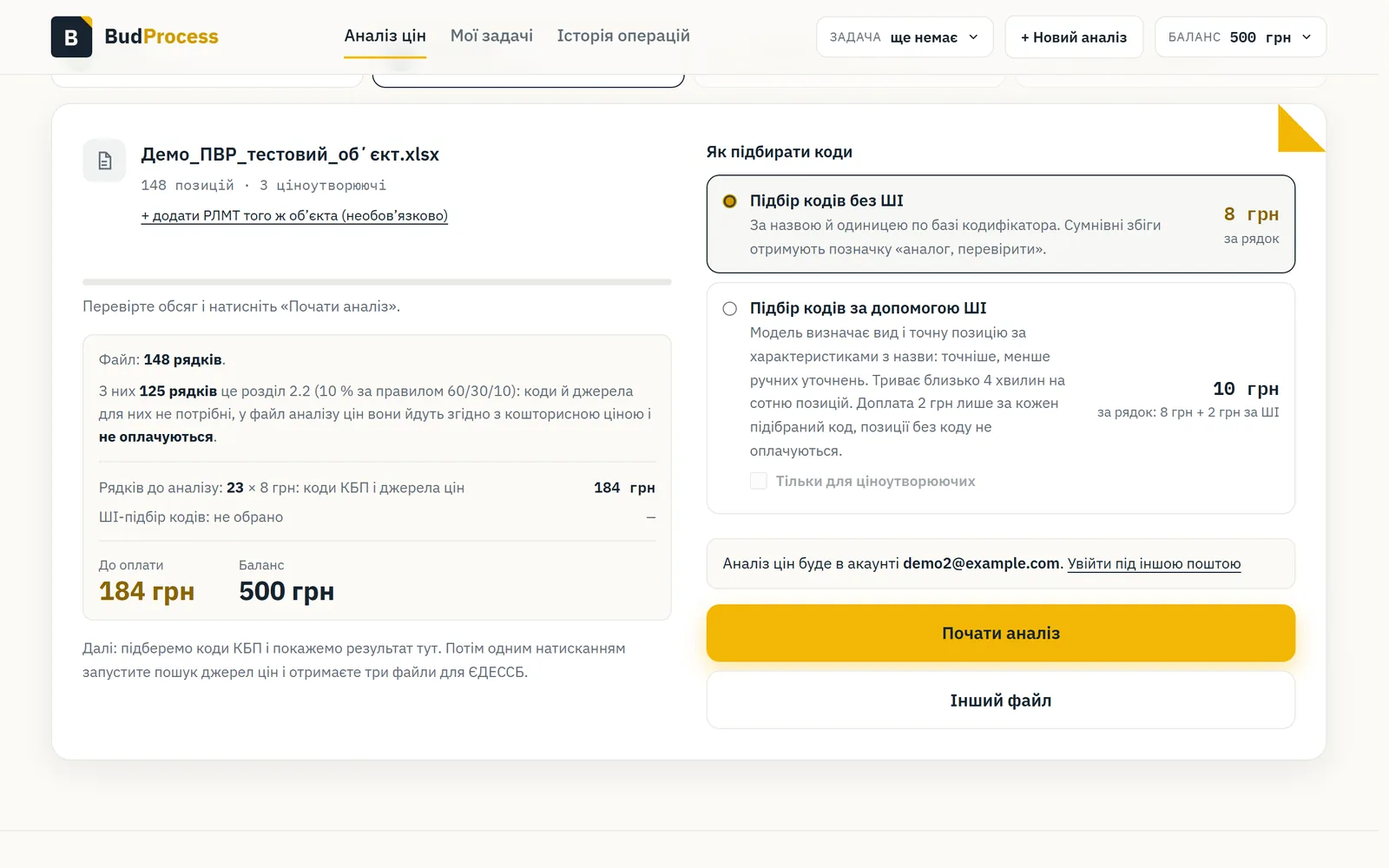
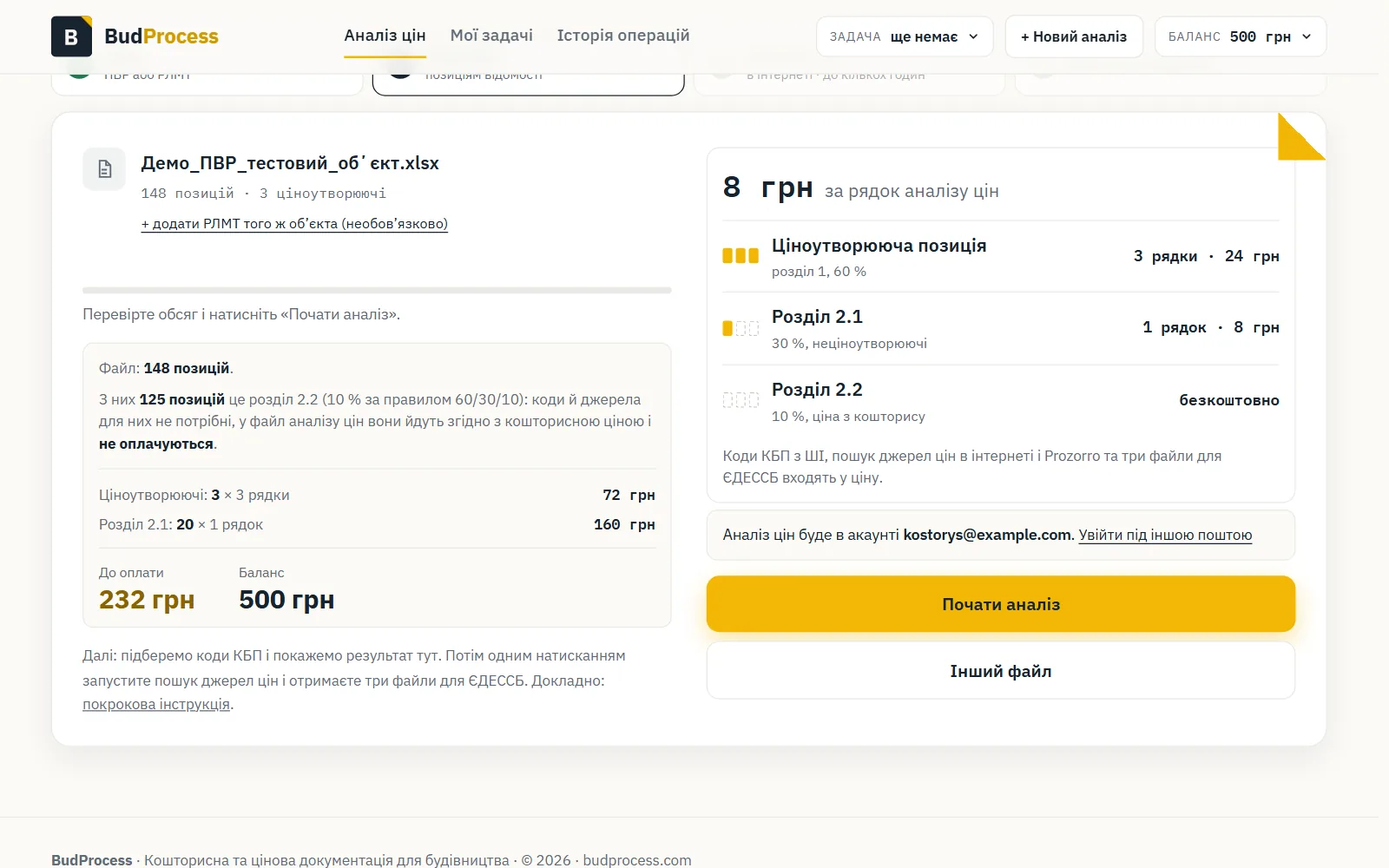
Tariff 2 copy: AI code matching always included, 8 UAH per price analysis row (pricing position = 3 rows); new cost screen screenshot in the guide

diff --git a/analiz-tsin.html b/analiz-tsin.html
@@ -311,7 +311,7 @@ gtag('config', 'G-2LT3V3W7FC', {linker: {domains: ['budprocess.com', 'app.budpro
 <a class="btn btn-amber" href="https://app.budprocess.com/">Зробити онлайн</a>
 <a class="btn btn-line" href="#contact">Замовити під ключ</a>
 </div>
-<p class="hero-note">Онлайн — 8 грн за рядок відомості · Під ключ — від 5 000 грн · Вся Україна, дистанційно</p>
+<p class="hero-note">Онлайн — 8 грн за рядок аналізу цін · Під ключ — від 5 000 грн · Вся Україна, дистанційно</p>
 </div>
 
 <section id="online">
@@ -330,7 +330,7 @@ gtag('config', 'G-2LT3V3W7FC', {linker: {domains: ['budprocess.com', 'app.budpro
 <li><b>Три обмінні файли</b> для ЄДЕССБ: аналіз цін, протокол погодження, кошторисна вартість</li>
 </ul>
 <div class="way-foot">
-<div class="way-price">8 грн за рядок<small>за бажанням — підбір кодів за допомогою ШІ</small><span class="gift">Перші 500 грн — за наш рахунок</span></div>
+<div class="way-price">8 грн за рядок<small>коди КБП підбирає ШІ</small><span class="gift">Перші 500 грн — за наш рахунок</span></div>
 <a class="btn btn-amber" href="https://app.budprocess.com/">Відкрити сервіс</a>
 </div>
 <p class="way-link"><a href="/instrukciya">Як це працює: покрокова інструкція</a></p>
@@ -430,7 +430,7 @@ gtag('config', 'G-2LT3V3W7FC', {linker: {domains: ['budprocess.com', 'app.budpro
 <ul class="price-list">
 <li>Платите лише за рядки розділів 60 % і 30 % — решту відомості сервіс обробляє безкоштовно</li>
 <li>Суму бачите одразу після завантаження відомості — ще до того, як щось запустити</li>
-<li>За бажанням — підбір кодів КБП за допомогою ШІ: точніше, менше ручних уточнень</li>
+<li>Коди КБП підбирає ШІ за характеристиками з назви: точніше, менше ручних уточнень</li>
 </ul>
 <div class="price-gift"><span class="gift">Перші 500 грн — за наш рахунок</span><p>Нараховуємо після підтвердження пошти, без картки й зобов'язань. Цього вистачає на кошторис приблизно до 500 позицій — платні лише рядки розділів 60 % і 30 %. <a href="https://app.budprocess.com/">Спробувати</a></p></div>
 </div>
@@ -474,7 +474,7 @@ gtag('config', 'G-2LT3V3W7FC', {linker: {domains: ['budprocess.com', 'app.budpro
 <div class="sec-label">Питання</div>
 <h2>Часті питання про аналіз цін</h2>
 <details><summary>Чим онлайн-сервіс відрізняється від послуги під ключ?</summary><p><b>Онлайн</b> — ви самі завантажуєте відомість ресурсів, а сервіс автоматично підбирає коди КБП і джерела цін і збирає три обмінні файли для ЄДЕССБ. Результат за кілька годин, оплата за рядок.</p><p><b>Під ключ</b> — наш спеціаліст готує комплект, працює з постачальниками і за дорученням завантажує звіт у ваш кабінет ЄДЕССБ. Готовність від 7 робочих днів, вартість від 5 000 грн.</p></details>
-<details><summary>Скільки коштує підготовка даних для аналізу цін?</summary><p><b>Онлайн</b> — 8 грн за рядок відомості; оплачуються лише рядки розділів 60 % і 30 %. Суму сервіс показує одразу після завантаження відомості.</p><p><b>Під ключ</b> — від 5 000 грн, залежно від кількості позицій, насамперед ціноутворюючих, і ступеня нашої участі в роботі з постачальниками. Надішліть кошторис — назвемо точну цифру, оцінка безкоштовна.</p></details>
+<details><summary>Скільки коштує підготовка даних для аналізу цін?</summary><p><b>Онлайн</b> — 8 грн за рядок аналізу цін, тобто за одне джерело ціни: ціноутворюючій позиції потрібні три джерела, позиції розділу 30 % одне, розділ 10 % безкоштовно. Суму сервіс показує одразу після завантаження відомості.</p><p><b>Під ключ</b> — від 5 000 грн, залежно від кількості позицій, насамперед ціноутворюючих, і ступеня нашої участі в роботі з постачальниками. Надішліть кошторис — назвемо точну цифру, оцінка безкоштовна.</p></details>
 <details><summary>Що потрібно для онлайн-сервісу?</summary><p>Підсумкова відомість ресурсів (ПВР) або ранжований список матеріалів (РЛМТ) з АВК-5 чи іншої кошторисної програми у форматі xls, xlsx або rtf — і електронна пошта, на яку прийде посилання для входу. Перші 500 грн — за наш рахунок: нараховуємо після підтвердження пошти, далі — поповнення карткою.</p></details>
 <details><summary>Чи можна одразу подати файли з онлайн-сервісу в ЄДЕССБ?</summary><p>Файли готові до імпорту в кабінет ЄДЕССБ, але коди КБП, ціни та джерела в них підібрані автоматично. Звіт формується й підписується КЕП у кабінеті замовника чи підрядника, тому перед подачею результат перевіряє фахівець, який його подає, — так само, як ми перевіряємо комплекти під ключ.</p></details>
 <details><summary>Що потрібно від вас для роботи під ключ?</summary><p>Кошторис у будь-якому форматі. Далі працюємо ми.</p></details>

diff --git a/instrukciya.html b/instrukciya.html
@@ -442,8 +442,8 @@ gtag('config', 'G-2LT3V3W7FC', {linker: {domains: ['budprocess.com', 'app.budpro
 
 <div class="step-h" id="cost"><span class="n">3</span><h2>Вартість і запуск</h2></div>
 <p class="do"><b>Що зробити:</b> перевірте кількість рядків до аналізу, оберіть спосіб підбору кодів і натисніть «Почати аналіз».</p>
-<p>На екрані видно, скільки рядків піде в роботу і скільки це коштує. Оплачуються лише рядки розділів 1 і 2.1, по 8&nbsp;грн за рядок, розділ 2.2 іде у файли за кошторисною ціною без оплати. Оберіть спосіб підбору кодів: за назвою по базі Кодифікатора або за допомогою ШІ, точніший і дорожчий, сума показана поруч. Натисніть «Почати аналіз».</p>
-<figure><img src="/img/instr/03-cost.webp" width="1600" height="1000" loading="lazy" alt="Екран перед запуском: назва файлу, кількість рядків до аналізу, сума до оплати, баланс, вибір підбору кодів без ШІ або з ШІ, кнопка «Почати аналіз»"><figcaption>Перед запуском користувач бачить кількість рядків до аналізу, суму, баланс і вибір способу підбору кодів</figcaption></figure>
+<p>На екрані видно, скільки позицій піде в роботу і скільки це коштує: 8&nbsp;грн за рядок аналізу цін, ціноутворююча позиція рахується як три рядки, бо для неї потрібні три джерела ціни. Розділ 2.2 іде у файли за кошторисною ціною безкоштовно. Коди підбирає ШІ, це входить у ціну. Натисніть «Почати аналіз».</p>
+<figure><img src="/img/instr/03-cost.webp" width="1600" height="1000" loading="lazy" alt="Екран перед запуском: назва файлу, кількість позицій, розрахунок вартості, баланс, ціна за рядок аналізу цін, кнопка «Почати аналіз»"><figcaption>Перед запуском користувач бачить кількість позицій, розрахунок вартості і баланс</figcaption></figure>
 
 <div class="step-h" id="codes"><span class="n">4</span><h2>Коди КБП</h2></div>
 <p class="do"><b>Що побачите:</b> через хвилину-дві підсумок: скільки позицій у роботі, скільки ціноутворюючих, скільки отримали код і скільки без коду.</p>

diff --git a/content/page-instrukciya.html b/content/page-instrukciya.html
@@ -38,8 +38,8 @@ image: /img/instr/04-codes.webp
 
 <div class="step-h" id="cost"><span class="n">3</span><h2>Вартість і запуск</h2></div>
 <p class="do"><b>Що зробити:</b> перевірте кількість рядків до аналізу, оберіть спосіб підбору кодів і натисніть «Почати аналіз».</p>
-<p>На екрані видно, скільки рядків піде в роботу і скільки це коштує. Оплачуються лише рядки розділів 1 і 2.1, по 8&nbsp;грн за рядок, розділ 2.2 іде у файли за кошторисною ціною без оплати. Оберіть спосіб підбору кодів: за назвою по базі Кодифікатора або за допомогою ШІ, точніший і дорожчий, сума показана поруч. Натисніть «Почати аналіз».</p>
-<figure><img src="/img/instr/03-cost.webp" width="1600" height="1000" loading="lazy" alt="Екран перед запуском: назва файлу, кількість рядків до аналізу, сума до оплати, баланс, вибір підбору кодів без ШІ або з ШІ, кнопка «Почати аналіз»"><figcaption>Перед запуском користувач бачить кількість рядків до аналізу, суму, баланс і вибір способу підбору кодів</figcaption></figure>
+<p>На екрані видно, скільки позицій піде в роботу і скільки це коштує: 8&nbsp;грн за рядок аналізу цін, ціноутворююча позиція рахується як три рядки, бо для неї потрібні три джерела ціни. Розділ 2.2 іде у файли за кошторисною ціною безкоштовно. Коди підбирає ШІ, це входить у ціну. Натисніть «Почати аналіз».</p>
+<figure><img src="/img/instr/03-cost.webp" width="1600" height="1000" loading="lazy" alt="Екран перед запуском: назва файлу, кількість позицій, розрахунок вартості, баланс, ціна за рядок аналізу цін, кнопка «Почати аналіз»"><figcaption>Перед запуском користувач бачить кількість позицій, розрахунок вартості і баланс</figcaption></figure>
 
 <div class="step-h" id="codes"><span class="n">4</span><h2>Коди КБП</h2></div>
 <p class="do"><b>Що побачите:</b> через хвилину-дві підсумок: скільки позицій у роботі, скільки ціноутворюючих, скільки отримали код і скільки без коду.</p>

diff --git a/dovidnyk/kody-kbp.html b/dovidnyk/kody-kbp.html
@@ -460,7 +460,7 @@ gtag('config', 'G-2LT3V3W7FC', {linker: {domains: ['budprocess.com', 'app.budpro
 </ul>
 
 <h2 id="servis">Як коди підбирає онлайн-сервіс</h2>
-<p>Сервіс шукає за назвою й одиницею виміру по всіх специфікаціях Кодифікатора і бере кандидатів лише того ж класу одиниць, тому кріплення в штуках не отримає код кріплення в тоннах без вашого підтвердження коефіцієнта. Коли назва визначає код неоднозначно, позиція отримує позначку «аналог, перевірити», і її можна уточнити вручну: обрати вид, потім характеристики, потім точну позицію. За бажанням вид і позицію за характеристиками з назви визначає ШІ: точніше, менше ручних уточнень. Архівні специфікації з пошуку виключені.</p>
+<p>Сервіс шукає за назвою й одиницею виміру по всіх специфікаціях Кодифікатора і бере кандидатів лише того ж класу одиниць, тому кріплення в штуках не отримає код кріплення в тоннах без вашого підтвердження коефіцієнта. Коли назва визначає код неоднозначно, позиція отримує позначку «аналог, перевірити», і її можна уточнити вручну: обрати вид, потім характеристики, потім точну позицію. Вид і позицію за характеристиками з назви визначає ШІ: точніше, менше ручних уточнень. Архівні специфікації з пошуку виключені.</p>
 <p>У будь-якому разі коди підібрано автоматично, і перед подачею їх перевіряє фахівець, який подає звіт.</p>
 <div class="cta-box">
 <h2>Зробіть аналіз цін онлайн за кілька годин</h2>

diff --git a/content/03-kody-kbp.html b/content/03-kody-kbp.html
@@ -50,5 +50,5 @@ image: /img/kbp-portal-search.webp
 </ul>
 
 <h2 id="servis">Як коди підбирає онлайн-сервіс</h2>
-<p>Сервіс шукає за назвою й одиницею виміру по всіх специфікаціях Кодифікатора і бере кандидатів лише того ж класу одиниць, тому кріплення в штуках не отримає код кріплення в тоннах без вашого підтвердження коефіцієнта. Коли назва визначає код неоднозначно, позиція отримує позначку «аналог, перевірити», і її можна уточнити вручну: обрати вид, потім характеристики, потім точну позицію. За бажанням вид і позицію за характеристиками з назви визначає ШІ: точніше, менше ручних уточнень. Архівні специфікації з пошуку виключені.</p>
+<p>Сервіс шукає за назвою й одиницею виміру по всіх специфікаціях Кодифікатора і бере кандидатів лише того ж класу одиниць, тому кріплення в штуках не отримає код кріплення в тоннах без вашого підтвердження коефіцієнта. Коли назва визначає код неоднозначно, позиція отримує позначку «аналог, перевірити», і її можна уточнити вручну: обрати вид, потім характеристики, потім точну позицію. Вид і позицію за характеристиками з назви визначає ШІ: точніше, менше ручних уточнень. Архівні специфікації з пошуку виключені.</p>
 <p>У будь-якому разі коди підібрано автоматично, і перед подачею їх перевіряє фахівець, який подає звіт.</p>

diff --git a/index.html b/index.html
@@ -269,7 +269,7 @@ gtag('config', 'G-2LT3V3W7FC', {linker: {domains: ['budprocess.com', 'app.budpro
 <a class="btn btn-amber" href="https://app.budprocess.com/">Зробити аналіз цін онлайн</a>
 <a class="btn btn-line" href="#contact">Надіслати документи</a>
 </div>
-<p class="hero-note">Онлайн — 8 грн за рядок відомості · Під ключ — оцінка безкоштовна · Вся Україна, дистанційно</p>
+<p class="hero-note">Онлайн — 8 грн за рядок аналізу цін · Під ключ — оцінка безкоштовна · Вся Україна, дистанційно</p>
 </div>
 
 <section id="services">
